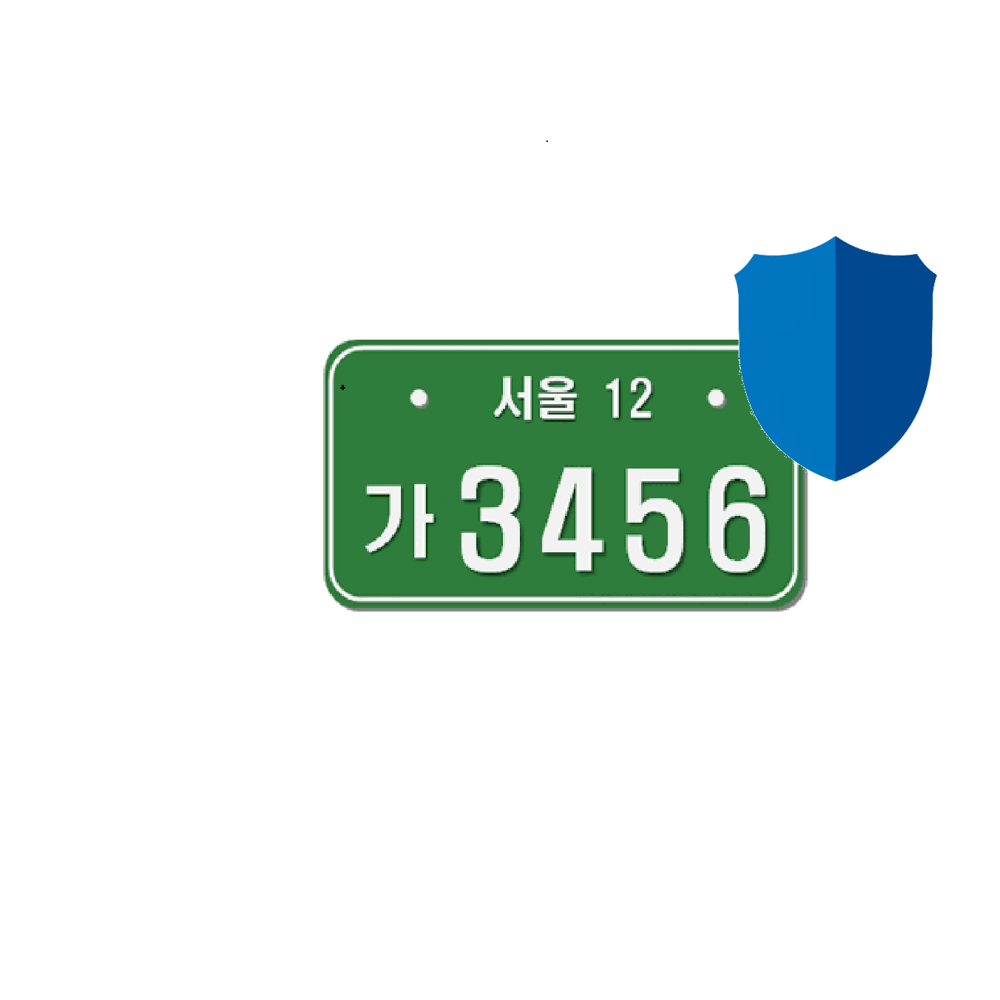
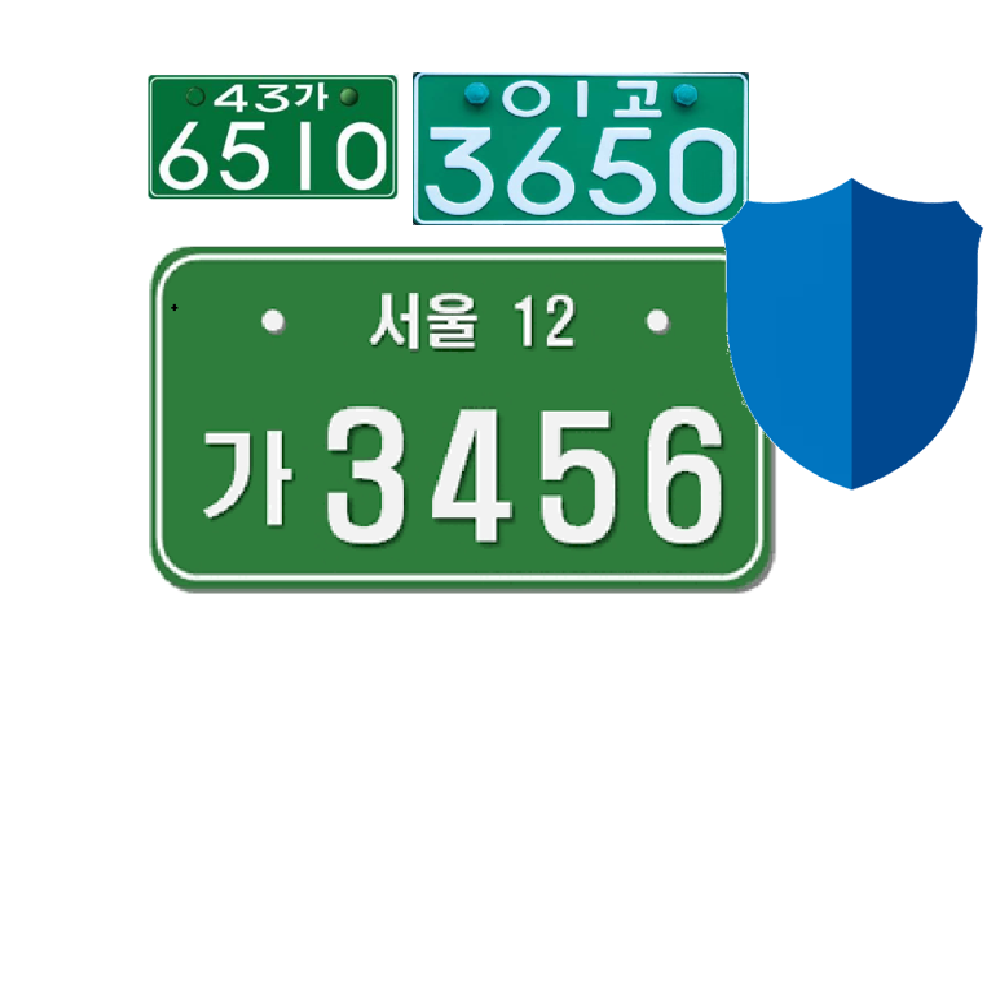
거의완성
완성

Changed region(s): [[0.124, 0.062, 0.992, 0.62]]

diff --git a/index.html b/index.html
@@ -5,7 +5,7 @@
         <meta charset="utf-8">
         
         <!-- 브라우저 상단에 들어갈 제목 -->
-        <title>차량번호는 내번호</title>
+        <title>파킹-쉐어-프로텍트</title>
         
         <meta name="viewport" content="width=device-width, initial-scale=1.0">
         <link href="css/font-awesome.min.css" rel="stylesheet" type="text/css" media="all">
@@ -30,7 +30,7 @@
                         <a href="#top">
                             
                             <!-- 회사이름을 입력하세요 -->
-                            <span class="logo">태시쿠</span>
+                            <span class="logo">파킹-쉐어-프로텍트</span>
                             
                         </a>
                     </div>
@@ -44,7 +44,7 @@
                                     <a href="#top">홈</a>
                                 </li>
                                 <li>
-                                    <a href="#section2">태시쿠는?</a>
+                                    <a href="#section2">파킹-쉐어-프로텍트는?</a>
                                 </li>
                                 <li>
                                     <a href="#section4">사용하기</a>
@@ -75,16 +75,17 @@
             <!-- 섹션1 히어로 유닛 -->
             <section id="section1" class="image-edge">
                 
-                <div class="col-md-5 col-sm-4 p0">
-                    <img alt="Screenshot" class="mb-xs-24" src="img/phone1.png">
+                <div class="col-md-6 col-sm-4 p0">
+                    <img alt="Screenshot" class="mb-xs-24" src="img/carNumber.png">
                 </div>
                 <div class="container">
                     <div class="col-md-offset-1 col-sm-7 v-align-transform right col-md-5">
-                        <h1 class="mb32 mb-xs-16">번호쉴드<br>신상보호</h1>
+                        <h1 class="mb32 mb-xs-16">번호쉴드<br>주차장공유</h1>
                         <p class="lead mb40">
-                            차량번호는 내번호<br>1분의 투자로 자신의 개인번호를 보호하세요!
+                            차량번호는 내번호<br>1분의 투자로 자신의 개인번호를 보호하세요!<br>등록한 사람들끼리 주차장을 공유하세요
+                            <br>근처의 주차장을 찾아줍니다.
                         </p>
-                        <a class="btn-lg btn btn-filled" href="#signup">지금 가입하고 앞으로 영원히 무료 이용권 받기</a>
+                        <a class="btn-lg btn btn-filled" href="#signup">지금 가입하고 마일리지 받기</a>
                     </div>
                 </div>
             </section>
@@ -94,14 +95,14 @@
             <!-- 섹션2 스토리 -->
             <section id="section2" class="image-bg bg-light overlay pt160 pb160 pt-xs-80 pb-xs-80 parallax">
                 <div class="background-image-holder">
-                    <img alt="image" class="background-image" src="img/intro1.jpg">
+                    <img alt="image" class="background-image" src="img/parkingLot.jpg">
                 </div>
                 <div class="container">
                     <div class="row">
                         <div class="col-md-7 col-sm-8">
-                            <i class="ti-quote-left icon icon-sm mb16"></i>
-                            <h3 class="mb32">우리는 차량을 주차할 때 자신의 번호를 기재하여 남들에게 공개하였습니다.</h3>
-                            <p>태시쿠는 그러한 당신의 번호를 보호해 줍니다.<br>간단한 등록만으로 자신의 번호를 보호하고 다른 사람의 번호를 찾아보세요.</p>
+                            <i class="ti-car icon icon-sm mb16"></i>
+                            <h3 class="mb32" style="color:white">우리는 차량을 주차할 때 자신의 번호를 기재하여 <br>남들에게 공개하였습니다.</h3>
+                            <p style="color:white">파킹-쉐어-프로텍트는 그러한 당신의 번호를 보호해 줍니다.<br>간단한 등록만으로 자신의 번호를 보호하고 다른 사람의 번호를 찾아보세요. 또 앱을 이용하는 사람들 끼리 주차공간을 같이 사용하세요.</p>
                         </div>
                     </div>
                 </div>
@@ -110,32 +111,6 @@
 
             
             
-            <!-- 섹션3 3단 컬럼 -->
-            <section id="section3">
-                <div class="container">
-                    <div class="row">
-                        <div class="col-sm-4">
-                            <h3>서비스의 차별점</h3>
-                            <p>
-                                차량번호 등록만으로 연락처를 기재할 필요가 없습니다다.
-                            </p>
-                        </div>
-                        <div class="col-sm-4">
-                            <h3>서비스의 차별점</h3>
-                            <p>
-                                공유 자원을 통해 주차장을 추천 받을 수 있습니다.
-                            </p>
-                        </div>
-                        <div class="col-sm-4">
-                            <h3>서비스의 차별점</h3>
-                            <p>
-                                차를 가지고 나가는 가까운 사람과 매칭시켜 주차장을 이용할 수 있도록 한다.
-                            </p>
-                        </div>
-                    </div>
-                </div>
-            </section>
-            
             
             
             <!-- 섹션4 기능 / 테스티모니얼 -->
@@ -143,52 +118,32 @@
                 <div class="container">
                     <div class="row mb64 mb-xs-24">
                         <div class="col-md-10 col-md-offset-1 col-sm-12 text-center">
-                            <h2>현재 준비중인 미생학교의 전문가 코스</h2>
+                            <h2>현재 준비중인 서비스 코스</h2>
                         </div>
                     </div>
                     <div class="row">
                         <div class="col-sm-4 text-center">
-                            <div class="feature cast-shadow-light boxed">
-                                <img alt="Pic" class="image-small inline-block mb24" src="img/profile1.png" style="border-radius: 100%;">
-                                <h4>안드로이드 앱 개발 입문</h4>
-                                <p>앱을 만들고 싶은데 어렵게 느껴져서 망설이던 분들을 위한 안드로이드 앱 개발 입문 강의입니다. 초보자라도 직접 앱을 만들 수 있습니다. 지금 바로 앱 개발의 세계에 도전하세요!</p>
+                            <div class="benefit feature cast-shadow-light boxed">
+                                <img alt="Pic" class="image-circle image-small inline-block mb24" src="img/lock.jpg" style="border-radius: 300%;">
+                                <h4>개인 신상 보호 서비스</h4>
+                                <p>차량번호와 핸드폰번호를 등록 후 연결한다. 등록 후 차량번호만으로 연락이 가능하다. </p>
                             </div>
                         </div>
                         <div class="col-sm-4 text-center">
-                            <div class="feature cast-shadow-light boxed">
-                                <img alt="Pic" class="image-small inline-block mb24" src="img/profile2.png" style="border-radius: 100%;">
-                                <h4>프론트엔드 개발 입문</h4>
-                                <p>앱을 만들고 싶은데 어렵게 느껴져서 망설이던 분들을 위한 안드로이드 앱 개발 입문 강의입니다. 초보자라도 직접 앱을 만들 수 있습니다. 지금 바로 앱 개발의 세계에 도전하세요!</p>
+                            <div class="benefit feature cast-shadow-light boxed">
+                                <img alt="Pic" class="image-circle image-small inline-block mb24" src="img/car.jpg" style="border-radius: 100%;">
+                                <h4>주변 주차장 알림 서비스</h4>
+                                <p>검색을 통해 주차장의 위치를 알려준다.<br>요청할경우 근처에 주차공간을 제공하는 사람이 있는지 찾아주고 연결시켜준 후 포인트를 주고 받아 이용하게 한다.</p>
                             </div>
                         </div>
                         <div class="col-sm-4 text-center">
-                            <div class="feature cast-shadow-light boxed">
-                                <img alt="Pic" class="image-small inline-block mb24" src="img/profile3.png" style="border-radius: 100%;">
-                                <h4>페이스북 마케팅 코스</h4>
-                                <p>앱을 만들고 싶은데 어렵게 느껴져서 망설이던 분들을 위한 안드로이드 앱 개발 입문 강의입니다. 초보자라도 직접 앱을 만들 수 있습니다. 지금 바로 앱 개발의 세계에 도전하세요!</p>
+                            <div class="benefit feature cast-shadow-light boxed">
+                                <img alt="Pic" class="image-circle image-small inline-block mb24" src="img/car%20parking.jpg" style="border-radius: 100%;">
+                                <h4>주차 공유 서비스</h4>
+                                <p>자신의 주차장을 공유하고 포인트를 받자.<br> 자신의 주차공간과 제공시간을 등록하고<br> 포인트를 받는다. 받은 포인트로 다른 주차장을 이용할 수 있다.</p>
                             </div>
                         </div>
-                        <div class="col-sm-4 text-center">
-                            <div class="feature cast-shadow-light boxed">
-                                <img alt="Pic" class="image-small inline-block mb24" src="img/profile4.png" style="border-radius: 100%;">
-                                <h4>소셜 콘텐츠 제작</h4>
-                                <p>앱을 만들고 싶은데 어렵게 느껴져서 망설이던 분들을 위한 안드로이드 앱 개발 입문 강의입니다. 초보자라도 직접 앱을 만들 수 있습니다. 지금 바로 앱 개발의 세계에 도전하세요!</p>
-                            </div>
-                        </div>
-                        <div class="col-sm-4 text-center">
-                            <div class="feature cast-shadow-light boxed">
-                                <img alt="Pic" class="image-small inline-block mb24" src="img/profile5.png" style="border-radius: 100%;">
-                                <h4>앱 디자인 클래스</h4>
-                                <p>앱을 만들고 싶은데 어렵게 느껴져서 망설이던 분들을 위한 안드로이드 앱 개발 입문 강의입니다. 초보자라도 직접 앱을 만들 수 있습니다. 지금 바로 앱 개발의 세계에 도전하세요!</p>
-                            </div>
-                        </div>
-                        <div class="col-sm-4 text-center">
-                            <div class="feature cast-shadow-light boxed">
-                                <img alt="Pic" class="image-small inline-block mb24" src="img/profile6.png" style="border-radius: 100%;">
-                                <h4>웹 디자인 클래스</h4>
-                                <p>앱을 만들고 싶은데 어렵게 느껴져서 망설이던 분들을 위한 안드로이드 앱 개발 입문 강의입니다. 초보자라도 직접 앱을 만들 수 있습니다. 지금 바로 앱 개발의 세계에 도전하세요!</p>
-                            </div>
-                        </div>
+                        
                     </div>
                 </div>
             </section>
@@ -238,18 +193,17 @@
 
             <section id="signup" class="image-edge">
                 <div class="col-md-6 col-sm-4 p0">
-                    <img alt="Screenshot" class="mb-xs-24" src="img/phone1.png">
+                    <img alt="Screenshot" class="mb-xs-24" src="img/car%20parking2.jpg">
                 </div>
                 <div class="container">
                     <div class="col-md-5 col-md-offset-1 col-sm-7 col-sm-offset-1 v-align-transform right">
                         <h3 class="uppercase mb40 mb-xs-24">Coming Soon</h3>
-                        <div class="countdown mb40" data-date="2016/08/01"></div>
+                        <div class="countdown mb40" data-date="2016/12/01"></div>
                         <p>
                             자신의 신상 보호와 공유 자원 주차장을 이용하세요!
                         </p>
                         <form class="halves form-newsletter" data-success="인증 메일이 발송되었습니다. 메일의 링크를 클릭하시면 가입이 완료됩니다." data-error="잘못된 정보를 입력 하셨습니다. 다시 한 번 확인 후 신청해주세요.">
-                            <input class="mb16 validate-required validate-email signup-email-field" type="text" placeholder="이메일 주소" name="email">
-                            <button class="mb16" type="submit">가입 신청하기</button>
+                                <a class="btn-lg btn btn-filled" href="http://goo.gl/forms/EpdJh9s501" target="_blank">지금 가입하고 마일리지 받기</a>
                             
                             <!-- 메일침프 폼 코드를 srcdoc="" 안에 붙여넣은 뒤 안쪽의 " 를 &quot; 로 바꾸세요 -->
                             <iframe srcdoc="<!-- Begin MailChimp Signup Form --> <link href=&quot;//cdn-images.mailchimp.com/embedcode/classic-10_7.css&quot; rel=&quot;stylesheet&quot; type=&quot;text/css&quot;> <style type=&quot;text/css&quot;> #mc_embed_signup{background:#fff; clear:left; font:14px Helvetica,Arial,sans-serif; } /* Add your own MailChimp form style overrides in your site stylesheet or in this style block. We recommend moving this block and the preceding CSS link to the HEAD of your HTML file. */ </style> <div id=&quot;mc_embed_signup&quot;> <form action=&quot;//sonujung.us10.list-manage.com/subscribe/post?u=8d20e1b4e30391cff8ae116a3&amp;id=373494dbf4&quot; method=&quot;post&quot; id=&quot;mc-embedded-subscribe-form&quot; name=&quot;mc-embedded-subscribe-form&quot; class=&quot;validate&quot; target=&quot;_blank&quot; novalidate> <div id=&quot;mc_embed_signup_scroll&quot;> <h2>Subscribe to our mailing list</h2> <div class=&quot;indicates-required&quot;><span class=&quot;asterisk&quot;>*</span> indicates required</div> <div class=&quot;mc-field-group&quot;> <label for=&quot;mce-FNAME&quot;>Name </label> <input type=&quot;text&quot; value=&quot;&quot; name=&quot;FNAME&quot; class=&quot;&quot; id=&quot;mce-FNAME&quot;> </div> <div class=&quot;mc-field-group&quot;> <label for=&quot;mce-EMAIL&quot;>Email Address <span class=&quot;asterisk&quot;>*</span> </label> <input type=&quot;email&quot; value=&quot;&quot; name=&quot;EMAIL&quot; class=&quot;required email&quot; id=&quot;mce-EMAIL&quot;> </div> <div id=&quot;mce-responses&quot; class=&quot;clear&quot;> <div class=&quot;response&quot; id=&quot;mce-error-response&quot; style=&quot;display:none&quot;></div> <div class=&quot;response&quot; id=&quot;mce-success-response&quot; style=&quot;display:none&quot;></div> </div> <!-- real people should not fill this in and expect good things - do not remove this or risk form bot signups--> <div style=&quot;position: absolute; left: -5000px;&quot; aria-hidden=&quot;true&quot;><input type=&quot;text&quot; name=&quot;b_8d20e1b4e30391cff8ae116a3_373494dbf4&quot; tabindex=&quot;-1&quot; value=&quot;&quot;></div> <div class=&quot;clear&quot;><input type=&quot;submit&quot; value=&quot;Subscribe&quot; name=&quot;subscribe&quot; id=&quot;mc-embedded-subscribe&quot; class=&quot;button&quot;></div> </div> </form> </div> <script type='text/javascript' src='//s3.amazonaws.com/downloads.mailchimp.com/js/mc-validate.js'></script><script type='text/javascript'>(function($) {window.fnames = new Array(); window.ftypes = new Array();fnames[1]='FNAME';ftypes[1]='text';fnames[0]='EMAIL';ftypes[0]='email';}(jQuery));var $mcj = jQuery.noConflict(true);</script> <!--End mc_embed_signup-->" class="mail-list-form">
@@ -267,11 +221,11 @@
                 <div class="container">
                     <div class="row">
                         <div class="col-sm-4">
-                            <a href="#">태시쿠</a>
+                            <a href="#">파킹-쉐어-프로텍트</a>
                         </div>
                         <div class="col-sm-4 text-center">
                             <span class="fade-half">
-                            © Copyright 2016 태시쿠 - All Rights Reserved
+                            © Copyright 2016 파킹-쉐어-프로텍트 - All Rights Reserved
                             </span>
                         </div>
                         <div class="col-sm-4 text-right text-center-xs">

diff --git a/css/style.css b/css/style.css
@@ -30,6 +30,11 @@ body {
     min-width: 300px;
 }
 
-
+.image-circle {
+    border-radius: 100%;
+    width: 80px;
+    height: 80px;
+}
 /***** 푸터 *****/
 
+.benefit {height: 360px}

diff --git a/css/theme.css b/css/theme.css
@@ -1607,7 +1607,7 @@ nav.nav-centered.outOfSight .logo {
   color: #292929;
 }
 .image-bg.bg-light .icon {
-  color: #292929;
+  color: #ffffff;
 }
 .image-bg .icon,
 .bg-dark .icon {
